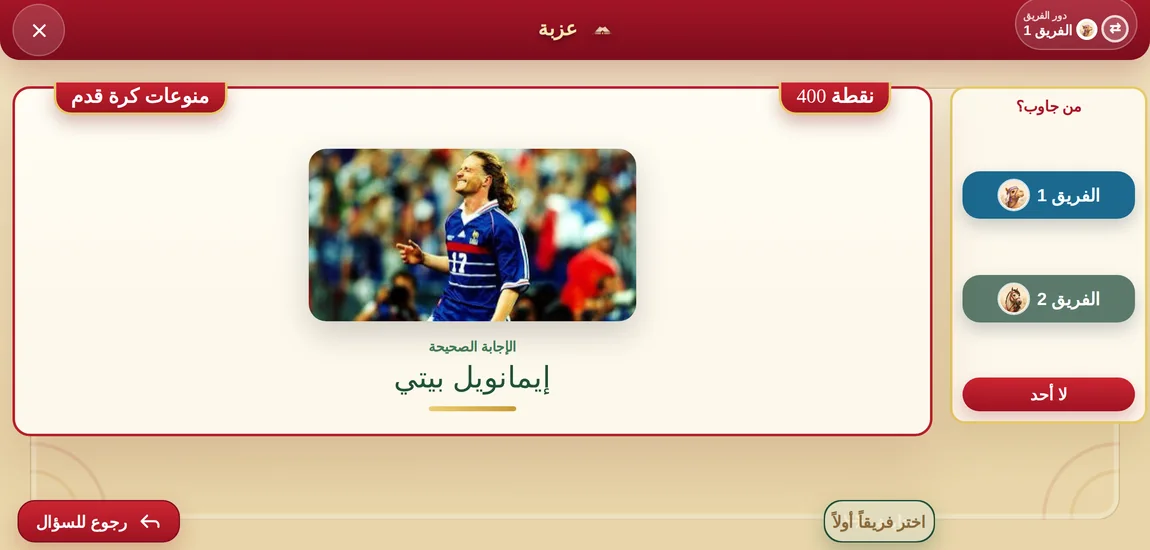
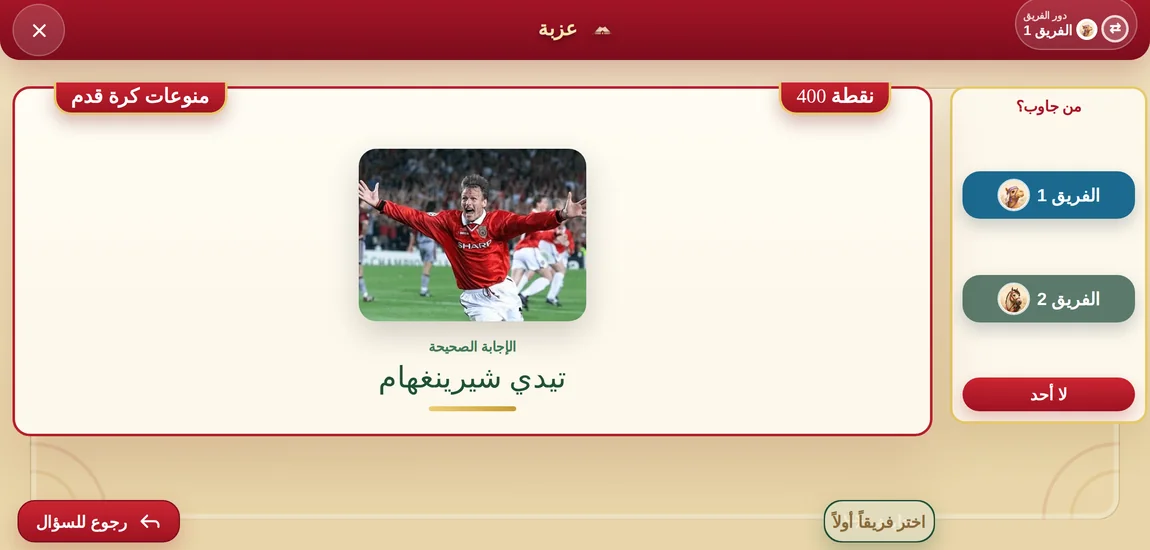
Landing page: game screens now match the board's real chrome, not a guess
Two things were still wrong, both from injecting categories that were missing
fields the real ones carry:

* No `color`, so every category title fell back to the board's dark default
  chrome. The real categories carry #9e1322 and render as light pills. Colours
  are now fetched from Firestore alongside the covers.
* No `fullImage`, which changes how the cover fills the card.

And the hero board mockup had its point tiles in Lalezar, because the game's
`.clean-number,…,.cell` rule says Lalezar 400. It does not win: a later
`#game .board-card-points .cell` rule overrides it to Cairo 900. Measured the
computed style rather than reading the stylesheet, and matched it.

Claude-Session: https://claude.ai/code/session_01Kzeetd7pnUyQnYaeMeHMkz

Changed region(s): [[0.2435, 0.2473, 0.5783, 0.6182], [0.3348, 0.68, 0.487, 0.7418]]

diff --git a/preview/index.html b/preview/index.html
@@ -188,7 +188,8 @@ header.stuck{background:rgba(22,6,10,.82); backdrop-filter:blur(14px); border-bo
 .col-head img{position:absolute; inset:0; width:100%; height:100%; object-fit:cover; opacity:.42}
 .tile{
   border-radius:11px; min-height:40px; display:grid; place-items:center;
-  font:400 18px var(--num); color:var(--gold-hi);
+  /* the game computes .cell to Cairo 900, not Lalezar — match it */
+  font:900 17px var(--body); color:var(--gold-hi); font-variant-numeric:tabular-nums;
   background:linear-gradient(180deg, rgba(255,255,255,.07), rgba(255,255,255,.02));
   border:1px solid var(--rule);
   opacity:0; transform:translateY(12px) scale(.94);
